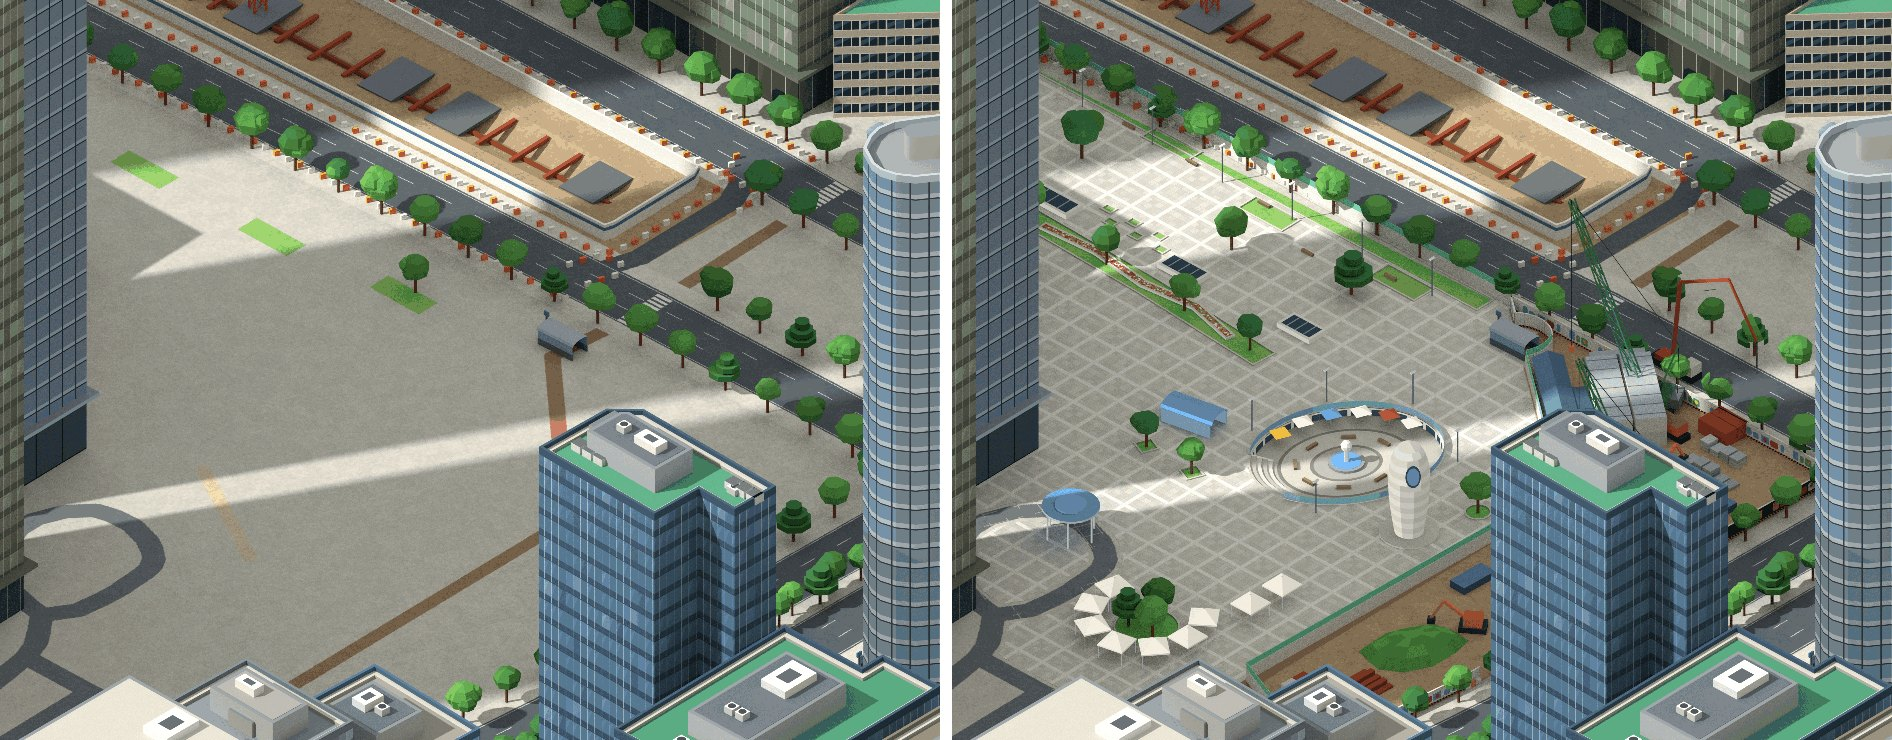
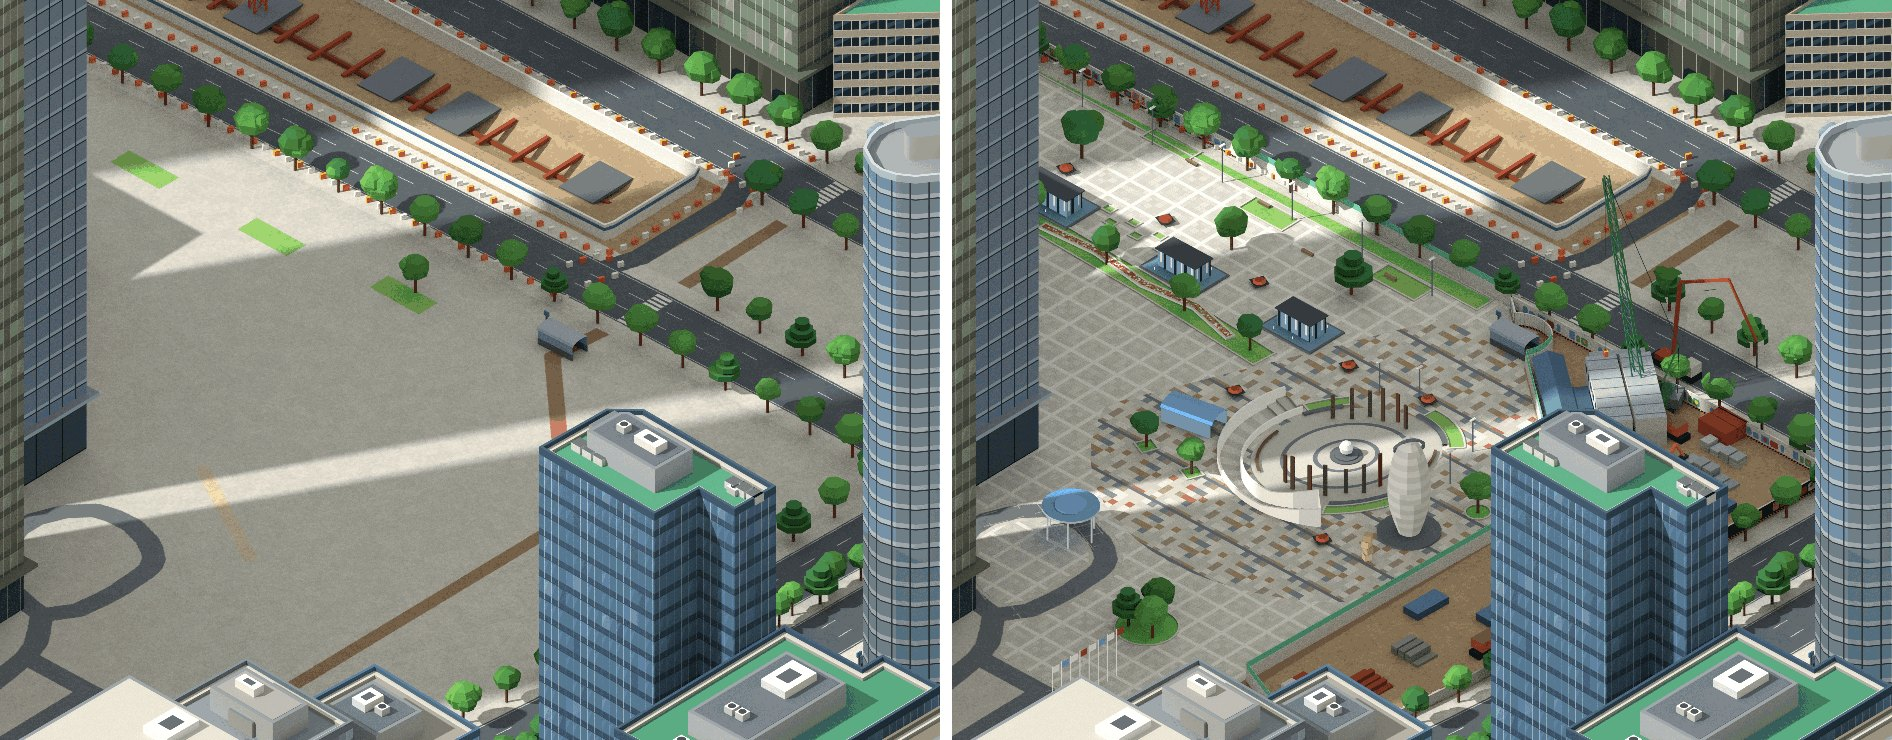
docs(teheran): describe the plaza sources and the partial bake baseline
State which street view capture each part of the Samseong plaza follows:
the road side from July 2026, the plaza interior from the August 2017
pedestrian capture where the current satellite image still shows the same
features.

A partial bake must start from the assets of the base commit. Patching on
top of already patched assets leaves pixels of removed objects behind.

diff --git a/pipeline3d/README.md b/pipeline3d/README.md
@@ -28,7 +28,7 @@
 | `yeouido/build_assets_yd.py` | 굽기 | cache → lock → quant → maps → tiles → mapjson → keys |
 | `teheran/fetch_osm.sh`, `teheran/prep_extra.py` | 입력·장면 자료 | 테헤란로: OSM 받기(건물은 여섯 칸으로 나눠서) + Overture 풋프린트, `yeouido/prep.py` 결과에 건물 보충·큰길가 높이·랜드마크 윤곽·지하철 출입구·왕릉·교량 높이를 더한다 |
 | `teheran/cam.py`, `teheran/lm_build.py` | 카메라·빌더 | 판 T(θ −24°, 15.625 cm/px). 랜드마크(위워크타워·GT타워·코엑스 등), 기와지붕 전각, 봉분 언덕, 홍살문, 공사 현장(가림벽·굴착·버팀보·골조·타워크레인). `yeouido/gen_area.py` 가 `P3D_AREA` 로 읽는다 |
-| `teheran/plaza_samseong.py` | 빌더 | 삼성역 광장: 선큰 마당(밀레니엄 광장), 달걀꼴 조형탑, 판석·화단·채광창·가로등, 호텔 앞 천막, 공사 야적장(벽화 담장·창고·크롤러 크레인·펌프카). `lm_build.py` 가 끝에서 읽는다. 자리는 `prep_extra.py` 가 `scene.json` 의 `samseong` 에 적는다 |
+| `teheran/plaza_samseong.py` | 빌더 | 삼성역 광장: 밀레니엄 광장(원형 광장의 강철 기둥·스테인리스 구, 초승달꼴 내리막 계단), 달걀꼴 조형탑, 판석·화단·줄무늬 파빌리온·가로등, 호텔 앞 깃대, 공사 야적장(벽화 담장·창고·크롤러 크레인·펌프카). `lm_build.py` 가 끝에서 읽는다. 자리는 `prep_extra.py` 가 `scene.json` 의 `samseong` 에 적는다 |
 | `teheran/patch.sh`, `teheran/patch_tiles.py` | 부분 굽기 | 한 구역만 고쳤을 때: 그 타일을 고치기 전·후 코드로 각각 렌더해 달라진 화소만 지금 자산에 덧입힌다(팔레트·다른 타일은 그대로) |
 | `teheran/render_tiles.sh`, `teheran/build_assets_th.py`, `teheran/run.sh` | 렌더·굽기 | 8×8 타일 렌더, 양식 패스 없이 조건 렌더를 그대로 굽는 굽기(여의도 굽기의 단계 함수를 부른다), 처음부터 끝까지의 순서 |
 | `gyeongbokgung/gen.py` | Blender 장면 + 렌더 | 경복궁 장면(한옥·궁궐·담·나무·국가유산청 모델 배치) |
@@ -168,14 +168,15 @@ Apple M5 Pro(15코어)에서 64타일 렌더(48 spp, 2프로세스 × 7스레드
 전체 굽기는 64타일 조건 렌더가 모두 있어야 하고, 팔레트를 새로 뽑으므로 타일 6천 장이 다 바뀝니다. 한 구역의 장면만 고쳤다면(예: 삼성역 광장) 그 타일만 다시 렌더해 덧입힙니다.
 
 ```bash
-cd work/teheran                                                       # osm/ 이 있는 작업 폴더. assets/teheran 은 기준 커밋 그대로여야 한다
-PY=/path/to/python-with-bpy bash ../../pipeline3d/teheran/patch.sh 6_1 HEAD --landmark 'millennium|코엑스 밀레니엄 광장|place|1189.5,519.5,0'
+git checkout <기준 커밋> -- assets/teheran assets.manifest.json          # 자산을 고치기 전 판으로(이미 덧입힌 판 위에 다시 덧입히면 지운 물체의 화소가 남는다)
+cd work/teheran                                                       # osm/ 이 있는 작업 폴더
+PY=/path/to/python-with-bpy bash ../../pipeline3d/teheran/patch.sh 6_1 <기준 커밋> --landmark 'millennium|코엑스 밀레니엄 광장|place|1189.5,519.5,0'
 ```
 
-- `patch.sh` 는 기준 커밋(`HEAD`)의 코드로 「고치기 전」 타일을, 작업 트리의 코드로 「고친 뒤」 타일을 렌더합니다. 두 렌더가 같은 OSM 자료·같은 표본 수라서, ID·깊이가 다르거나 색이 뭉쳐서 다른 화소가 곧 고친 자리입니다(새 물체의 그림자 포함). OSM 을 새로 받으면 가로수 몇 그루가 공개판과 달라질 수 있는데, 그런 차이는 두 렌더에 똑같이 들어 있어 덧입히는 범위에 들지 않습니다.
+- `patch.sh` 는 기준 커밋(그 구역을 고치기 전의 커밋. 삼성역 광장은 `5d7ce945`)의 코드로 「고치기 전」 타일을, 작업 트리의 코드로 「고친 뒤」 타일을 렌더합니다. 두 렌더가 같은 OSM 자료·같은 표본 수라서, ID·깊이가 다르거나 색이 뭉쳐서 다른 화소가 곧 고친 자리입니다(새 물체의 그림자 포함). OSM 을 새로 받으면 가로수 몇 그루가 공개판과 달라질 수 있는데, 그런 차이는 두 렌더에 똑같이 들어 있어 덧입히는 범위에 들지 않습니다.
 - `patch_tiles.py` 는 그 화소만 지금 팔레트(128색)로 양자화해 z8 타일에 넣고, z4·z2·z1·`bg.png`·`bg_1x.png` 는 그 화소가 든 칸만 다시 줄입니다. 깊이·분류·수관 맵은 전체 굽기의 `step_maps` 를 그 타일만 채운 캐시로 돌려 달라진 칸만 옮깁니다. `--landmark` 로 `map.json` 에 자리 이름을 더하고, `--manifest` 로 `assets.manifest.json` 의 sha256 을 고칩니다.
 - 새 색은 팔레트에 있는 색 가까이로 고르세요(분홍·주황처럼 팔레트에 없는 색은 가장 가까운 벽돌색·노랑으로 바뀝니다). 달라진 화소가 타일 가장자리에 닿으면 경고가 나오니 이웃 타일을 더해 다시 돌립니다.
-- 지면 ID(1)로 세운 낮은 면은 굽기에서 높이 −1.55 m 아래가 물로 분류됩니다(선큰 마당 바닥을 −1.4 m 에 둔 까닭). 물가처럼 도려낸 구덩이의 비탈을 빼려면 빌더가 전역 `NOSKIRT`(다각형)를 둡니다.
+- 지면 ID(1)로 세운 낮은 면은 굽기에서 높이 −1.55 m 아래가 물로 분류됩니다(광장 내리막 계단의 바닥을 −1.4 m 에 둔 까닭). 물가처럼 도려낸 구덩이의 비탈을 빼려면 빌더가 전역 `NOSKIRT`(다각형)를 둡니다.
 - 삼성역 광장 한 타일(48 spp)은 Apple M6(12코어)에서 렌더 한 번에 약 50초, 덧입히기에 15초쯤 걸렸고, 바뀐 파일은 타일 21장과 맵·목록 일곱 장입니다.
 
 ## 경복궁 순서

diff --git a/README.md b/README.md
@@ -34,7 +34,7 @@ A living pixel-art miniature of two Seoul neighbourhoods: the Gyeongbokgung Pala
 
 ## 테헤란로(이 포크에서 더한 지도)
 
-강남역에서 삼성역까지 테헤란로 3.3 km 와 그 둘레(화면 3440 × 2120 m)를 한 장에 담았습니다. 강남역·역삼역·선릉역·삼성역, 선릉과 정릉(봉분 언덕·정자각·홍살문), 위워크타워, 포스코센터, 강남파이낸스센터, GT타워, 삼성 서초사옥, 코엑스·트레이드타워가 들어 있습니다. 삼성역 일대는 지금 모습대로 공사 현장입니다: 현대차 GBC 터에는 골조가 올라오는 코어와 타워크레인, 영동대로에는 복합환승센터(GTX) 굴착 구간의 버팀보·복공판·가림벽이 있습니다. 삼성역 5·6번 출구 앞 광장(코엑스 동측 광장)에는 밀레니엄 광장의 선큰 마당과 분수대, 달걀꼴 흰 조형탑, 화강석 판석과 화단·채광창, 호텔 앞 천막, 모퉁이의 공사 야적장(벽화 담장·크롤러 크레인·펌프카)이 있고, 사진 찍는 사람과 거리 음악가가 모입니다.
+강남역에서 삼성역까지 테헤란로 3.3 km 와 그 둘레(화면 3440 × 2120 m)를 한 장에 담았습니다. 강남역·역삼역·선릉역·삼성역, 선릉과 정릉(봉분 언덕·정자각·홍살문), 위워크타워, 포스코센터, 강남파이낸스센터, GT타워, 삼성 서초사옥, 코엑스·트레이드타워가 들어 있습니다. 삼성역 일대는 지금 모습대로 공사 현장입니다: 현대차 GBC 터에는 골조가 올라오는 코어와 타워크레인, 영동대로에는 복합환승센터(GTX) 굴착 구간의 버팀보·복공판·가림벽이 있습니다. 삼성역 5·6번 출구 앞 광장(코엑스 동측 광장)에는 밀레니엄 광장의 원형 광장(강철 기둥과 은빛 구), 지하 상가로 내려가는 초승달꼴 계단과 흰 난간벽, 달걀꼴 은회색 조형탑, 여러 색 돌 모자이크 판석, 못 가운데 선 줄무늬 파빌리온, 화단과 꽃 화분, 호텔 앞 깃대, 모퉁이의 공사 야적장(벽화 담장·접이식 출입문·크롤러 크레인·펌프카)이 있고, 사진 찍는 사람과 거리 음악가가 모입니다.
 
 ![삼성역 광장: 고치기 전(왼쪽)과 뒤(오른쪽)](docs/img/teheran_samseong_plaza.jpg)
 
@@ -44,7 +44,7 @@ A living pixel-art miniature of two Seoul neighbourhoods: the Gyeongbokgung Pala
 - **양식 패스(이미지 모델)를 거치지 않았습니다.** 이 지도의 그림은 3D 렌더를 128색으로 줄인 것 그대로라서, 경복궁·여의도의 픽셀아트 결과는 결이 다릅니다(벽돌·간판 같은 손그림 세부가 없습니다). GPU 로 양식 패스를 돌리면 같은 조건 렌더에서 이어서 구울 수 있습니다(`pipeline3d/teheran/build_assets_th.py --raw`).
 - OSM 에 건물이 비어 있던 블록은 Overture 건물 테마의 East Asian Buildings 풋프린트 1,429개로 채웠고, 높이 태그가 없는 건물은 종류·면적·큰길 접함으로 추정했습니다.
 - 랜드마크의 색과 입면 구성은 네이버 지도 거리뷰를 눈으로 보고 맞췄습니다(사진은 저장소에 없습니다). 거리뷰에서 잘 안 보인 건물과 옥상은 추정입니다. 공사 현장의 장비·골조 배치는 연출입니다.
-- 삼성역 광장은 OSM 에 상업 부지 한 덩어리로만 있어서, 윤곽을 네이버 지도 위성 사진에서 눈으로 따 오고(오차 2–3 m) 높이·색은 거리뷰(2026-07 촬영분)를 보고 정했습니다. 선큰 마당의 깊이(실제 약 5 m → 1.4 m)와 야적장 안 장비·자재 배치는 연출입니다. 이 구역은 그 타일만 다시 렌더해 달라진 자리만 덧입혔습니다(`pipeline3d/teheran/patch.sh`).
+- 삼성역 광장은 OSM 에 상업 부지 한 덩어리로만 있어서, 윤곽을 네이버 지도 위성 사진에서 눈으로 따 오고(오차 2–3 m) 형태·높이·색은 거리뷰를 보고 정했습니다. 길 쪽(야적장 담장·출입문·흙더미·크레인, 호텔 앞)은 2026-07 촬영분, 광장 안쪽(원형 광장·계단·파빌리온·조형탑·판석)은 공사 전인 2017-08 보행 거리뷰를 따랐고, 그 가운데 지금 위성 사진에 그대로 남아 있는 것만 넣었습니다. 계단 깊이(실제 약 5 m → 1.4 m), 기둥 수, 야적장 안 장비·자재 배치는 연출입니다. 이 구역은 그 타일만 다시 렌더해 달라진 자리만 덧입혔습니다(`pipeline3d/teheran/patch.sh`).
 - 스크립트와 순서는 [`pipeline3d/teheran/`](pipeline3d/teheran/run.sh), 출처는 [CREDITS.md](CREDITS.md)의 「테헤란로」에 있습니다.
 
 ## 어떻게 만들었나

diff --git a/CREDITS.md b/CREDITS.md
@@ -64,8 +64,8 @@
 | Overture Maps 건물 테마 가운데 OSM 이 아닌 출처의 풋프린트(East Asian Buildings, doi:10.5281/zenodo.8174931) 1,429개 | OSM 에 건물이 비어 있는 블록의 건물 윤곽(높이는 면적으로 추정) | CC BY 4.0 (Overture 배포본: CDLA-Permissive-2.0 / ODbL) |
 
 - 랜드마크의 색·입면 구성은 네이버 지도 거리뷰를 사람이(작업한 에이전트가) 눈으로 보고 3D 모델에 옮겼다. 화면을 저장소나 그림에 넣지 않았고, 확인용으로 찍은 화면은 작업 폴더 밖 임시 폴더에만 두었다.
-- 삼성역 광장(코엑스 동측 광장·밀레니엄 광장·출구 앞 공사 야적장)은 OSM 에 윤곽이 없어, 네이버 지도 위성 사진을 장면 좌표에 맞춰 놓고 눈으로 본 자리를 근사 좌표로 적었다(`pipeline3d/teheran/prep_extra.py`, 오차 2–3 m). 형태·색은 거리뷰(2026-07 촬영분)를 보고 정했다. 위성 사진·거리뷰 화면은 저장소나 그림에 넣지 않았다. 담장 벽화는 실제 글자·도안이 아니라 색 블록 무늬다.
-- 건물 높이는 OSM `height` → `building:levels` 순으로 읽고, 없으면 건물 종류·면적·큰길 접함으로 추정했다. 봉분 언덕의 높이, 선큰 마당의 깊이, 공사 현장·야적장의 골조·장비 배치는 연출이다.
+- 삼성역 광장(코엑스 동측 광장·밀레니엄 광장·출구 앞 공사 야적장)은 OSM 에 윤곽이 없어, 네이버 지도 위성 사진을 장면 좌표에 맞춰 놓고 눈으로 본 자리를 근사 좌표로 적었다(`pipeline3d/teheran/prep_extra.py`, 오차 2–3 m). 형태·색은 거리뷰를 보고 정했다(길 쪽은 2026-07 촬영분, 광장 안쪽은 공사 전인 2017-08 보행 촬영분 가운데 지금 위성 사진에 남아 있는 것). 위성 사진·거리뷰 화면은 저장소나 그림에 넣지 않았다. 담장 벽화는 실제 글자·도안이 아니라 색 블록 무늬다.
+- 건물 높이는 OSM `height` → `building:levels` 순으로 읽고, 없으면 건물 종류·면적·큰길 접함으로 추정했다. 봉분 언덕의 높이, 광장 계단의 깊이, 공사 현장·야적장의 골조·장비 배치는 연출이다.
 - 장면 데이터(`map.json`)는 OSM 에서 왔으므로 **ODbL 1.0**, 그림은 다른 지도와 같이 **CC BY 4.0** 이다.
 
 ## 여의도 (`assets/yeouido/`)
